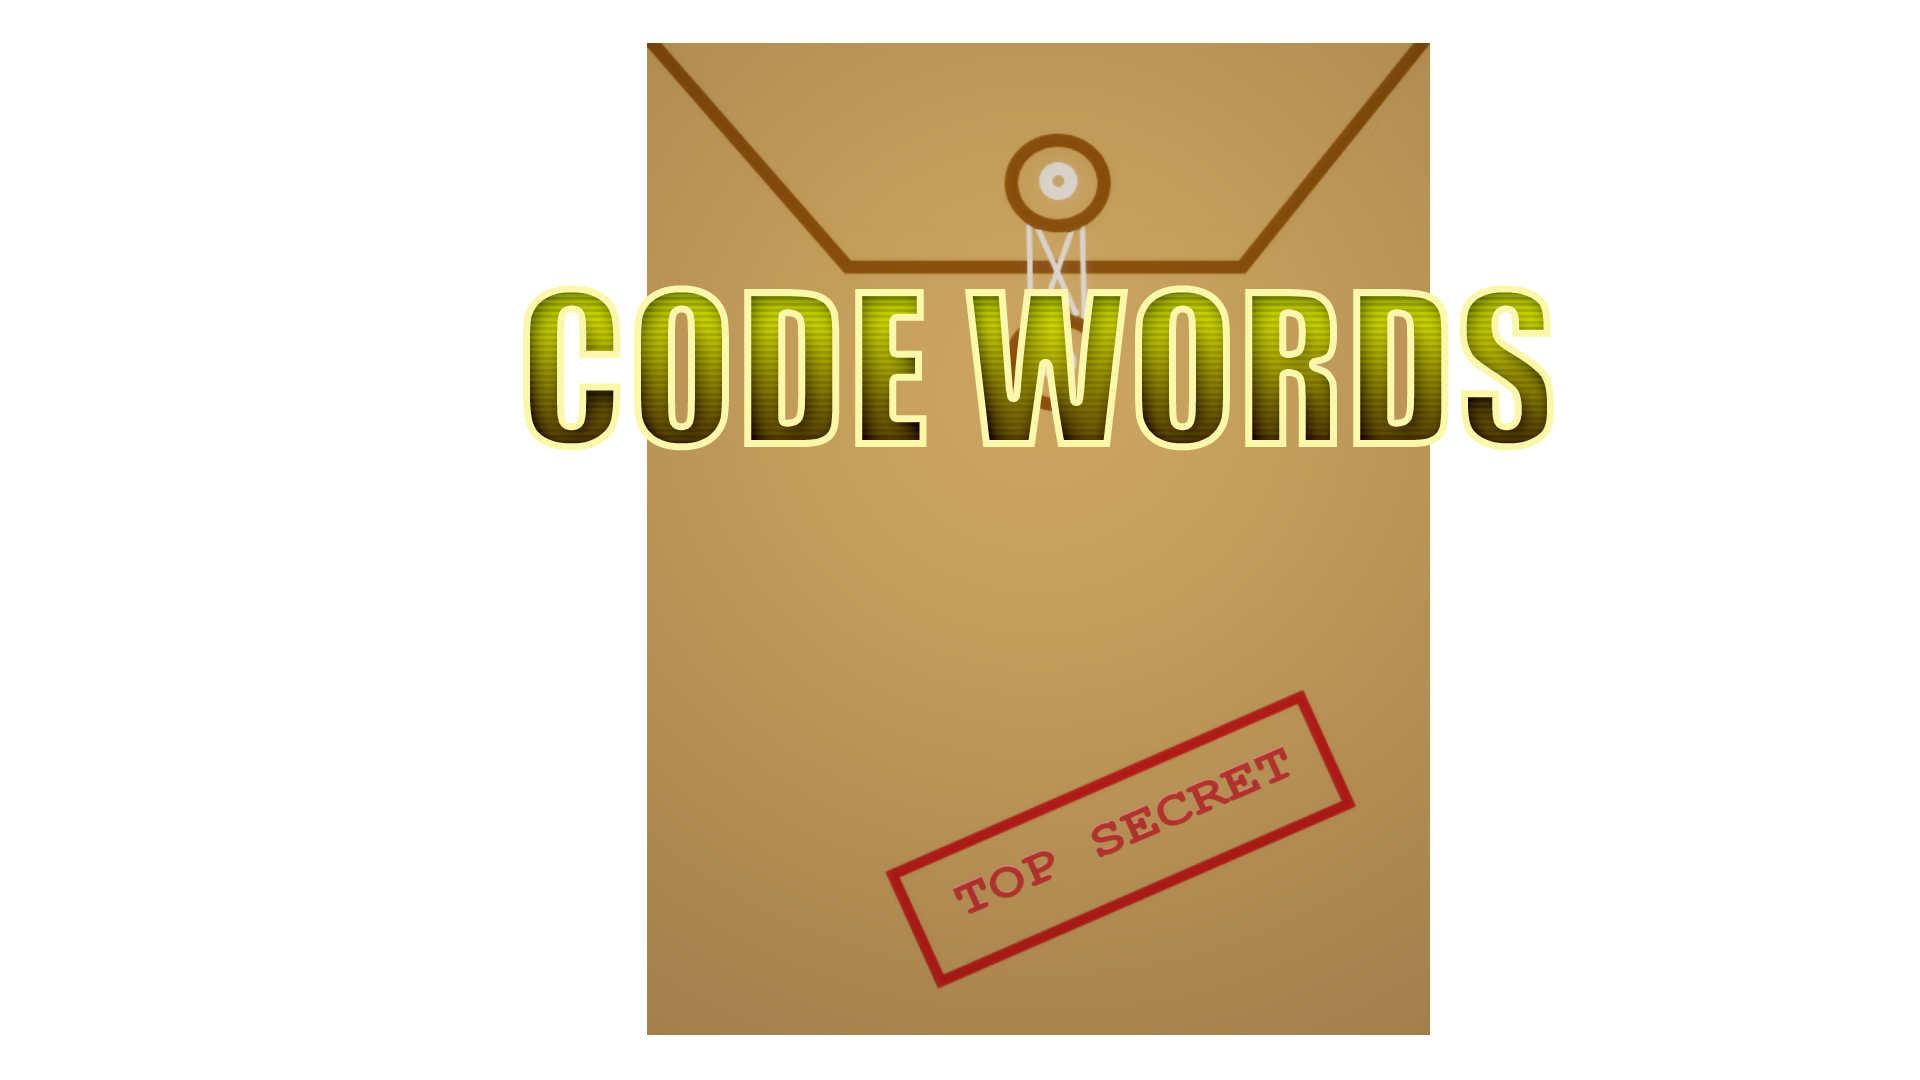
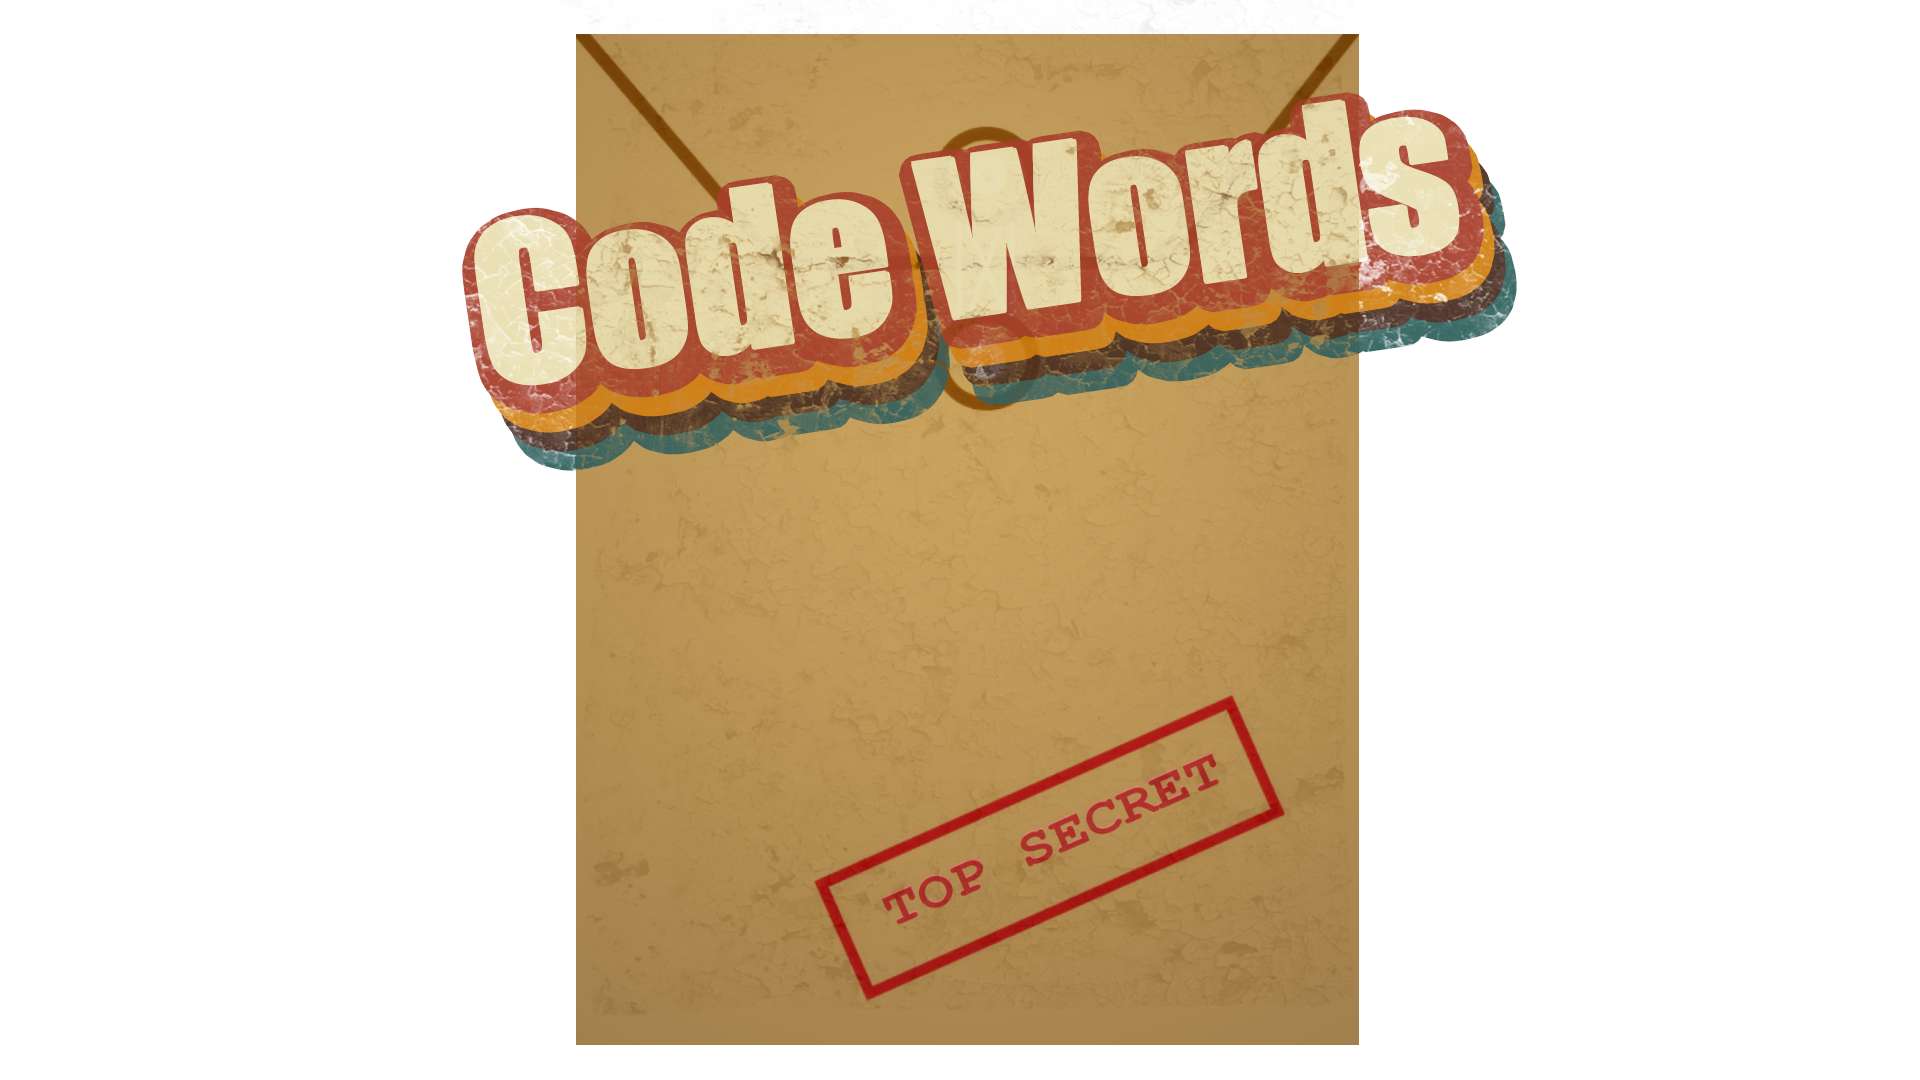
Much better looking menu.

Changed region(s): [[0.2188, 0.0306, 0.8125, 0.9778]]

diff --git a/CodeWords/wwwroot/css/site.css b/CodeWords/wwwroot/css/site.css
@@ -42,7 +42,7 @@ button.accept-policy {
 /* Sticky footer styles
 -------------------------------------------------- */
 html {
-    background: url(../table.png) no-repeat center center fixed;
+    background: url(../mainMenuBackground.png) no-repeat center center fixed;
     -webkit-background-size: cover;
     -moz-background-size: cover;
     -o-background-size: cover;
@@ -66,7 +66,15 @@ html {
     font-weight: bold;
 }
 
-.menu {
+.menuImage {
+    background: url(../mainMenuBackground.png) no-repeat center center fixed;
+    -webkit-background-size: cover;
+    -moz-background-size: cover;
+    -o-background-size: cover;
+    background-size: cover;
+}
+
+.menu {    
     text-align: center;
     margin: 0;
     position: absolute;
